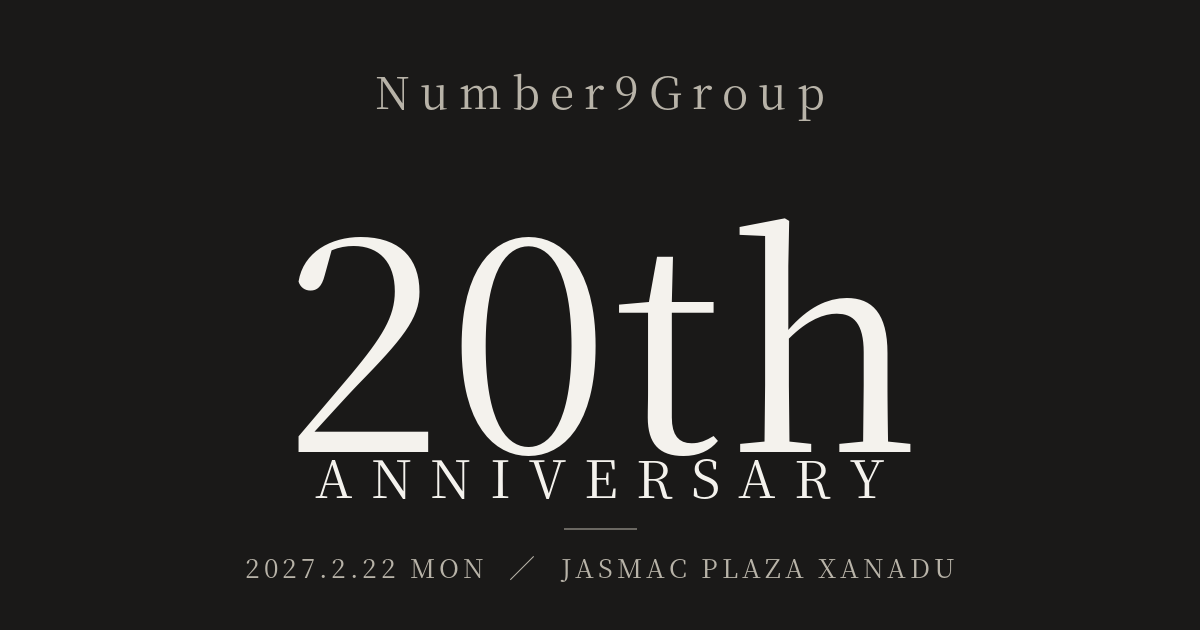
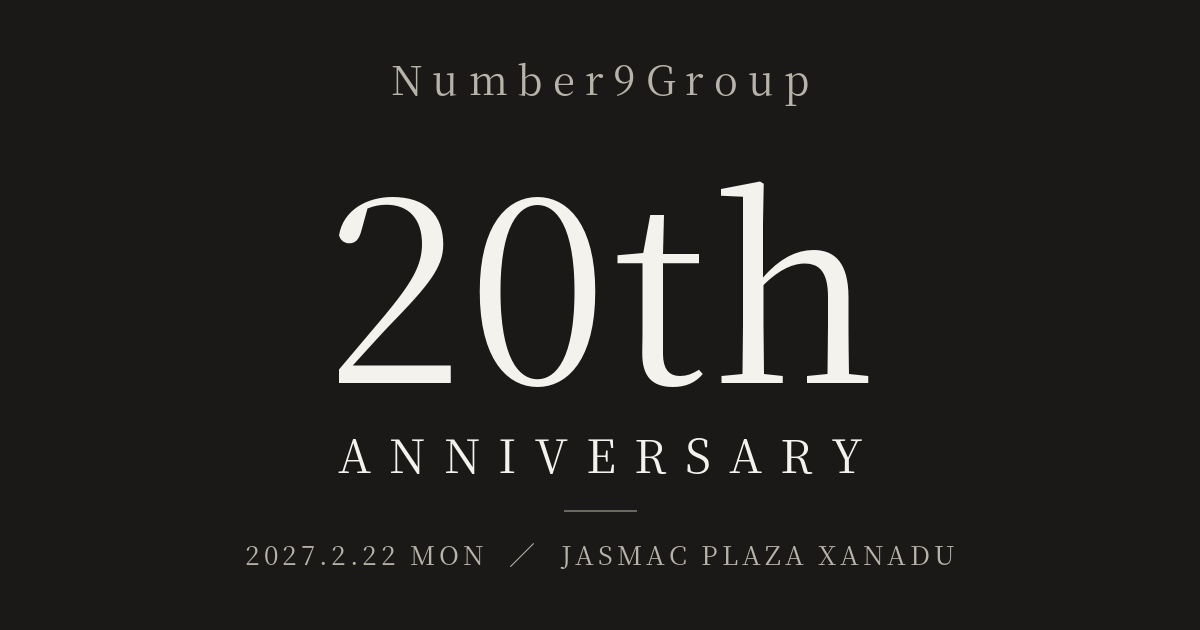
OGP image spacing
Claude-Session: https://claude.ai/code/session_01NzNQMEo8tMDqitRg1fmcij

diff --git a/staff/index.html b/staff/index.html
@@ -8,7 +8,7 @@
 <meta property="og:description" content="2027年2月22日（月）開場17:20・開宴18:00｜ジャスマックプラザ ザナドゥ｜ご出欠のご回答はこちらから（11月11日まで）">
 <meta property="og:type" content="website">
 <meta property="og:url" content="https://meative.github.io/number9-20th/staff/">
-<meta property="og:image" content="https://meative.github.io/number9-20th/og.png?v=3">
+<meta property="og:image" content="https://meative.github.io/number9-20th/og.png?v=4">
 <meta name="twitter:card" content="summary_large_image">
 <link rel="preconnect" href="https://fonts.googleapis.com">
 <link rel="preconnect" href="https://fonts.gstatic.com" crossorigin>

diff --git a/index.html b/index.html
@@ -8,7 +8,7 @@
 <meta property="og:description" content="2027年2月22日（月）開場17:20・開宴18:00｜ジャスマックプラザ ザナドゥ｜ご出欠のご回答はこちらから（11月11日まで）">
 <meta property="og:type" content="website">
 <meta property="og:url" content="https://meative.github.io/number9-20th/">
-<meta property="og:image" content="https://meative.github.io/number9-20th/og.png?v=3">
+<meta property="og:image" content="https://meative.github.io/number9-20th/og.png?v=4">
 <meta name="twitter:card" content="summary_large_image">
 <link rel="preconnect" href="https://fonts.googleapis.com">
 <link rel="preconnect" href="https://fonts.gstatic.com" crossorigin>
